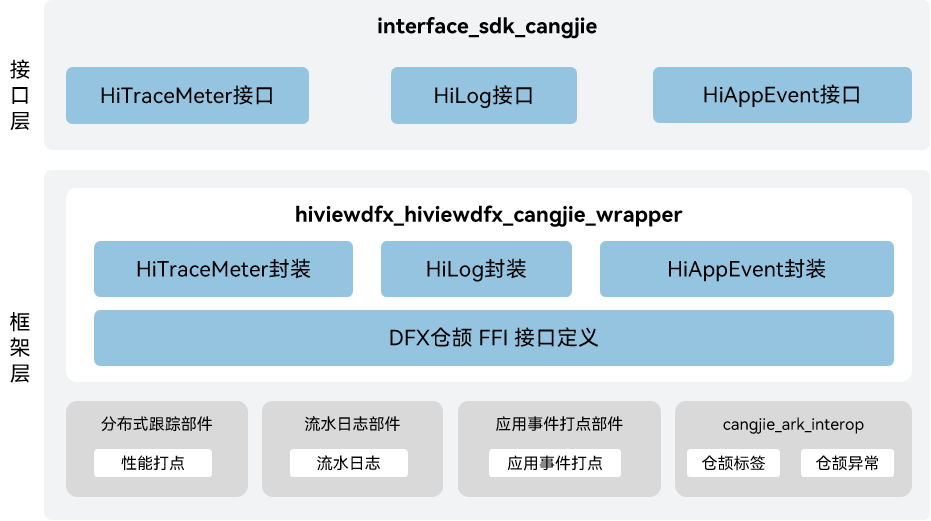
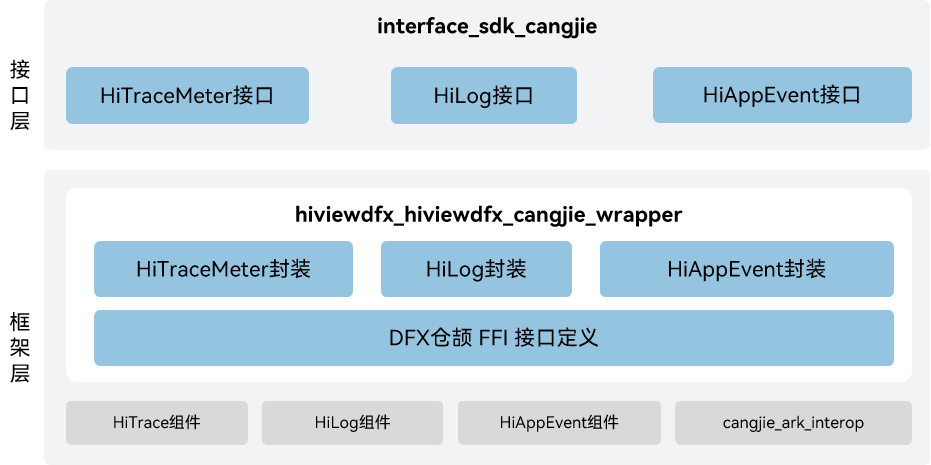
update README

diff --git a/README_zh.md b/README_zh.md
@@ -1,8 +1,8 @@
-# DFX仓颉接口
+# DFX仓颉封装
 
 ## 简介
 
-DFX仓颉接口是在OpenHarmony上基于DFX子系统能力之上封装的仓颉API。在OpenHarmony中，DFX\([Design for X](https://en.wikipedia.org/wiki/Design_for_X)\)是为了提升质量属性软件设计，目前包含的内容主要有：DFR（Design for Reliability，可靠性）和DFT（Design for Testability，可测试性）特性。当前开发的DFX仓颉接口仅支持standard设备。
+DFX仓颉封装是在OpenHarmony上面向开发者提供使用仓颉语言进行应用开发时的DFX能力。在OpenHarmony中，DFX\([Design for X](https://en.wikipedia.org/wiki/Design_for_X)\)是为了提升质量属性软件设计，目前包含的内容主要有：DFR（Design for Reliability，可靠性）和DFT（Design for Testability，可测试性）特性。当前开发的DFX仓颉接口仅支持standard设备。
 
 ## 系统架构
 
@@ -12,15 +12,21 @@ DFX仓颉接口是在OpenHarmony上基于DFX子系统能力之上封装的仓颉
 
 如架构图所示：
 
-- DFX仓颉接口当前提供以下能力：
-    - HiLog：日志系统，使应用/服务可以按照指定级别、标识和格式字符串输出日志内容，帮助开发者了解应用/服务的运行状态，更好地调试程序。
-    - HiAppEvent：本模块提供应用打点和事件订阅能力，包括事件存储、事件订阅、事件清理、打点配置等功能。
-    - HiTraceMeter：本模块提供了跟踪进程轨迹，度量程序执行性能的打点能力。
-- 接口封装：使用仓颉实现DFX能力。
+接口层：
+
+- HiTraceMeter接口：本模块提供了跟踪进程轨迹，度量程序执行性能的打点能力。
+- HiLog接口：日志系统，使应用/服务可以按照指定级别、标识和格式字符串输出日志内容，帮助开发者了解应用/服务的运行状态，更好地调试程序。
+- HiAppEvent接口：本模块提供应用打点和事件订阅能力，包括事件存储、事件订阅、事件清理、打点配置等功能。
+
+框架层：
+
+- HiTraceMeter封装：仓颉HiTraceMeter的实现封装，提供HiTraceMeter能力。
+- HiLog封装：仓颉HiLog的实现封装，提供HiLog能力。
+- HiAppEvent封装：仓颉HiAppEvent的实现封装，提供HiAppEvent能力。
 - DFX仓颉FFI接口定义：负责定义C语言互操作仓颉接口，用于实现仓颉DFX能力。
-- 分布式跟踪部件：负责提供性能打点功能，封装C语言接口提供给仓颉进行互操作。
-- 流水日志部件：负责提供流水日志功能，封装C语言接口提供给仓颉进行互操作。
-- 应用事件打点部件：负责提供应用事件打点功能，封装C语言接口提供给仓颉进行互操作。
+- HiTrace组件：负责提供性能打点功能，封装C语言接口提供给仓颉进行互操作。
+- HiLog组件：负责提供流水日志功能，封装C语言接口提供给仓颉进行互操作。
+- HiAppEvent组件：负责提供应用事件打点功能，封装C语言接口提供给仓颉进行互操作。
 - cangjie_ark_interop：负责提供仓颉注解类定义，用于对API进行标注，以及提供抛向用户的BusinessException异常类定义。
 
 ## 目录
@@ -43,20 +49,22 @@ base/hiviewdfx/hiviewdfx_cangjie_wrapper
 
 ## 使用说明
 
-如架构图所示，DFX仓颉提供了以下功能：
+当前DFX仓颉提供了以下功能：
 
 - HiLog流水日志。
 - HiAppEvent应用事件记录接口及框架。
 - HiTraceMeter性能打点。
 
+DFX仓颉相关API请参见[应用事件打点](https://gitcode.com/openharmony-sig/arkcompiler_cangjie_ark_interop/blob/master/doc/API_Reference/source_zh_cn/apis/PerformanceAnalysisKit/cj-apis-hiappevent.md)，[HiLog日志打印](https://gitcode.com/openharmony-sig/arkcompiler_cangjie_ark_interop/blob/master/doc/API_Reference/source_zh_cn/apis/PerformanceAnalysisKit/cj-apis-hilog.md)，[性能打点](https://gitcode.com/openharmony-sig/arkcompiler_cangjie_ark_interop/blob/master/doc/API_Reference/source_zh_cn/apis/PerformanceAnalysisKit/cj-apis-hi_tracemeter.md)。
+
+相关指导请参见[Performance Analysis Kit简介](https://gitcode.com/openharmony-sig/arkcompiler_cangjie_ark_interop/blob/master/doc/Dev_Guide/source_zh_cn/dfx/cj-performance-analysis-kit-overview.md)。
+
+## 约束
+
 与ArkTS提供的API能力相比，暂不支持以下功能：
 
 - HiView插件平台。
 - FaultLoggerd应用故障收集和订阅。
-
-DFX仓颉相关API请参见[应用事件打点](https://gitcode.com/openharmony-sig/arkcompiler_cangjie_ark_interop/blob/master/doc/API_Reference/source_zh_cn/apis/PerformanceAnalysisKit/cj-apis-hiappevent.md)，[HiLog日志打印](https://gitcode.com/openharmony-sig/arkcompiler_cangjie_ark_interop/blob/master/doc/API_Reference/source_zh_cn/apis/PerformanceAnalysisKit/cj-apis-hilog.md)，[性能打点](https://gitcode.com/openharmony-sig/arkcompiler_cangjie_ark_interop/blob/master/doc/API_Reference/source_zh_cn/apis/PerformanceAnalysisKit/cj-apis-hi_tracemeter.md)。
-
-相关指导请参见[Performance Analysis Kit简介](https://gitcode.com/openharmony-sig/arkcompiler_cangjie_ark_interop/blob/master/doc/Dev_Guide/source_zh_cn/dfx/cj-performance-analysis-kit-overview.md)。
 
 ## 参与贡献
 
@@ -64,7 +72,7 @@ DFX仓颉相关API请参见[应用事件打点](https://gitcode.com/openharmony-
 
 ## 相关仓
 
-[ark_compiler_cangjie_ark_interop](https://gitcode.com/openharmony-sig/arkcompiler_cangjie_ark_interop)
+[arkcompiler_cangjie_ark_interop](https://gitcode.com/openharmony-sig/arkcompiler_cangjie_ark_interop)
 
 [hiviewdfx_hiappevent](https://gitcode.com/openharmony/hiviewdfx_hiappevent)
 

diff --git a/README.md b/README.md
@@ -2,7 +2,7 @@
 
 ## Introduction
 
-The hiviewdfx_cangjie_wrapper is a Cangjie API encapsulated on OpenHarmony based on the capabilities of the DFX Subsystem. [Design for X](https://en.wikipedia.org/wiki/Design_for_X)  \(DFX\) refers to the software design that aims to improve the quality attribute in OpenHarmony. It mainly consists of two parts: design for reliability \(DFR\) and design for testability \(DFT\).The DFX Cangjie interface currently under development only supports standard devices.
+[Design for X](https://en.wikipedia.org/wiki/Design_for_X)  \(DFX\) refers to the software design that aims to improve the quality attribute in OpenHarmony. It mainly consists of two parts: design for reliability \(DFR\) and design for testability \(DFT\).The DFX Cangjie interface currently under development only supports standard devices.
 
 ## System Architecture
 
@@ -12,12 +12,21 @@ The hiviewdfx_cangjie_wrapper is a Cangjie API encapsulated on OpenHarmony based
 
 As shown in the diagram:
 
-- DFX Cangjie provides the following capabilities:
-    - HiLog: A logging system enables applications/services to output log content according to specified levels, identifiers, and format strings, helping developers understand the running status of applications/services and better debug programs.
-    - HiAppEvent: This module provides application management and event subscription capabilities, including event storage, event subscription, event cleaning, management configuration, and other functions.
-    - HiTraceMeter: This module provides the ability to track process trajectories and measure program execution performance.
-- Interface encapsulation: Implement DFX capability using Cangjie.
+Interface:
+
+- HiTraceMeter API: This module provides the ability to track process trajectories and measure program execution performance.
+- HiLog API: A logging system enables applications/services to output log content according to specified levels, identifiers, and format strings, helping developers understand the running status of applications/services and better debug programs.
+- HiAppEvent API: This module provides application management and event subscription capabilities, including event storage, event subscription, event cleaning, management configuration, and other functions.
+
+Framework:
+
+- HiTrace wrapper: Provides Implementation encapsulation of Cangjie HiTrace, providing HiTrace capabilities.
+- HiLog wrapper: Provides Implementation encapsulation of Cangjie HiLog, providing HiLog capabilities.
+- HiAppEvent wrapper: Provides Implementation encapsulation of Cangjie HiAppEvent, providing HiAppEvent capabilities.
 - Cangjie DFX FFI interface definition: responsible for defining the C Language interoperability Cangjie interface, used to implement Cangjie DFX capabilities.
+- HiTrace: Responsible for providing performance tracking capabilities, encapsulating C language interfaces for interoperation with Cangjie.
+- HiLog: Responsible for providing HiLog functionality, encapsulating C language interfaces for interoperation with Cangjie.
+- HiAppEvent: Responsible for providing application event tracking functionality, encapsulating C language interfaces for interoperation with Cangjie.
 - cangjie_ark_interop: Responsible for providing Cangjie APILevel class definitions, which are used to annotate APIs, as well as providing the definition of BusinessException class that is thrown to users.
 
 ## Directory Structure
@@ -50,6 +59,8 @@ DFX Cangjie related APIs, please refer to[Application Event Logging](https://git
 
 For relevant guidance, please refer to[Introduction to Performance Analysis Kit](https://gitcode.com/openharmony-sig/arkcompiler_cangjie_ark_interop/blob/master/doc/Dev_Guide/source_en/dfx/cj-performance-analysis-kit-overview.md).
 
+## Constraints
+
 Compared to ArkTS, the following features are currently not supported:
 
 - Hiview: Functions as the plug-in platform.
@@ -61,7 +72,7 @@ Developers are welcome to contribute code, documentation, etc. For specific cont
 
 ## Repositories Involved
 
-[ark_compiler_cangjie_ark_interop](https://gitcode.com/openharmony-sig/arkcompiler_cangjie_ark_interop)
+[arkcompiler_cangjie_ark_interop](https://gitcode.com/openharmony-sig/arkcompiler_cangjie_ark_interop)
 
 [hiviewdfx_hiappevent](https://gitcode.com/openharmony/hiviewdfx_hiappevent)
 
